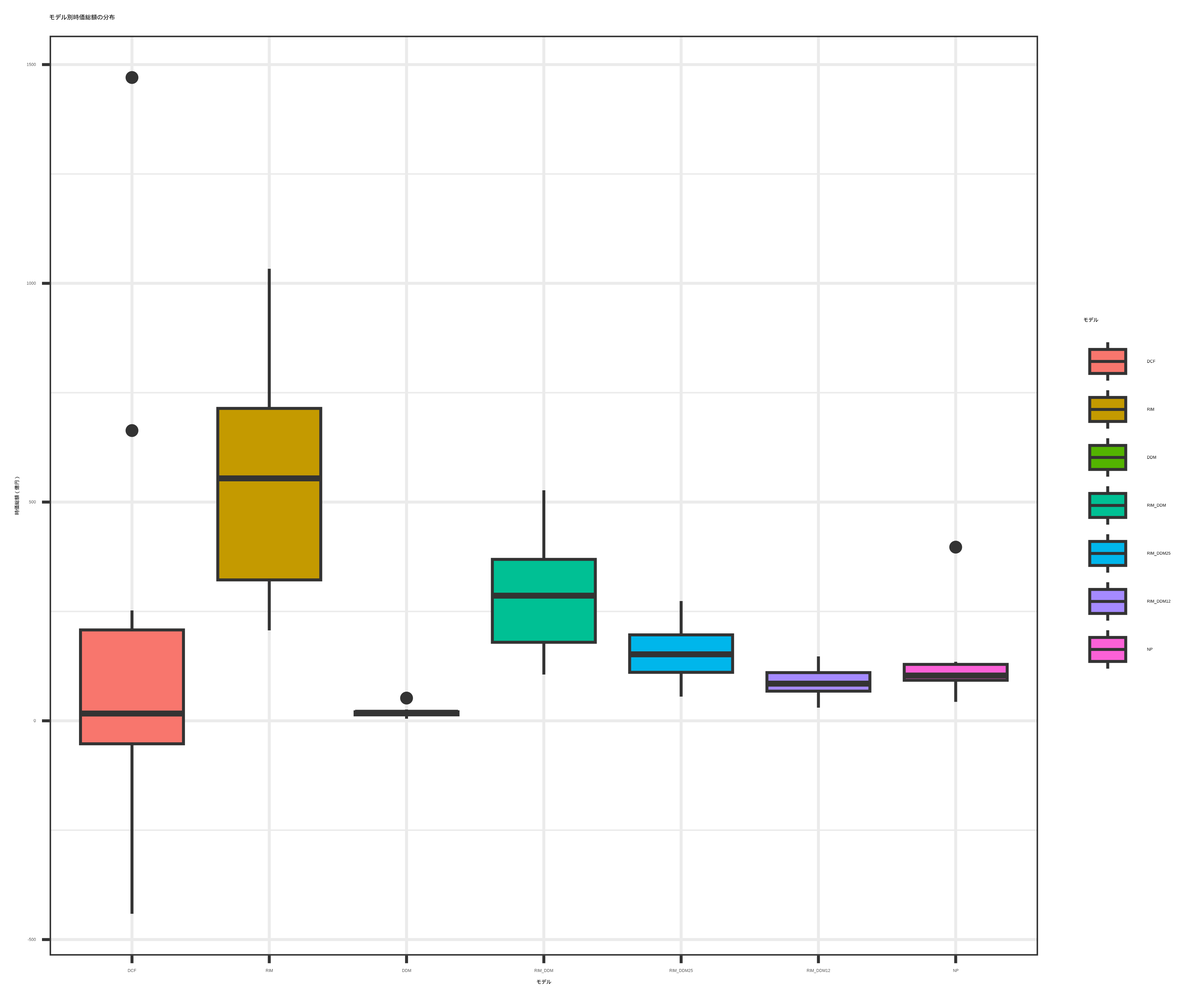
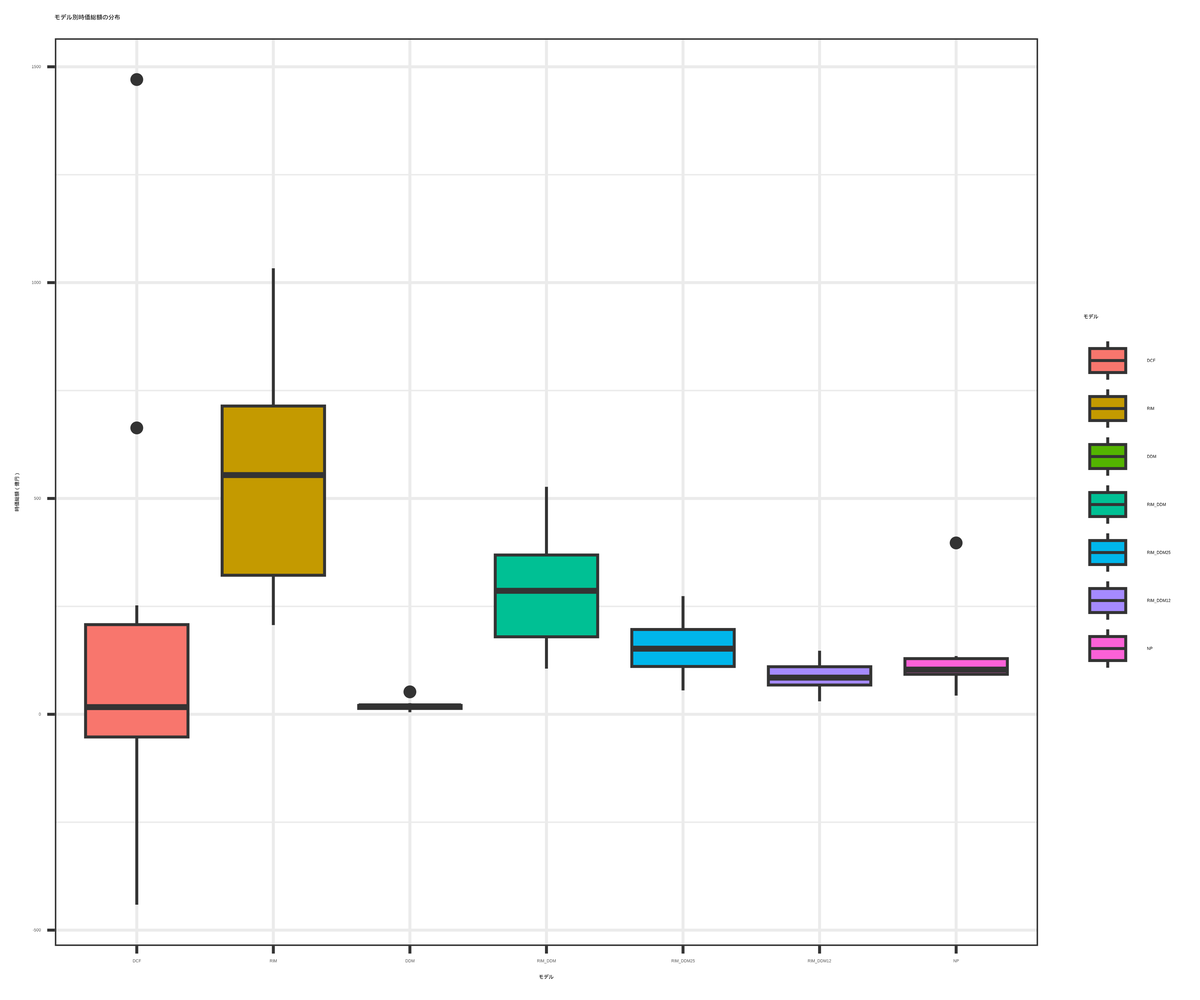
TOPIX

diff --git a/docs/Last.html b/docs/Last.html
@@ -1641,11 +1641,14 @@ dbl (6): df, DCF_value, RIM_value, DDM_value, g, NP_latest
 <div class="sourceCode cell-code" id="cb79"><pre class="sourceCode r code-with-copy"><code class="sourceCode r"><span id="cb79-1"><a href="#cb79-1" aria-hidden="true" tabindex="-1"></a><span class="co"># 5. モデル別分布（箱ひげ図）</span></span>
 <span id="cb79-2"><a href="#cb79-2" aria-hidden="true" tabindex="-1"></a>p2 <span class="ot">&lt;-</span> <span class="fu">ggplot</span>(df_long, <span class="fu">aes</span>(<span class="at">x =</span> モデル, <span class="at">y =</span> 時価総額, <span class="at">fill =</span> モデル)) <span class="sc">+</span></span>
 <span id="cb79-3"><a href="#cb79-3" aria-hidden="true" tabindex="-1"></a>  <span class="fu">geom_boxplot</span>() <span class="sc">+</span></span>
-<span id="cb79-4"><a href="#cb79-4" aria-hidden="true" tabindex="-1"></a>  <span class="fu">labs</span>(<span class="at">title =</span> <span class="st">"モデル別時価総額の分布"</span>,</span>
-<span id="cb79-5"><a href="#cb79-5" aria-hidden="true" tabindex="-1"></a>       <span class="at">x =</span> <span class="st">"モデル"</span>, <span class="at">y =</span> <span class="st">"時価総額（億円）"</span>) <span class="sc">+</span></span>
-<span id="cb79-6"><a href="#cb79-6" aria-hidden="true" tabindex="-1"></a>  <span class="fu">theme_bw</span>()</span>
-<span id="cb79-7"><a href="#cb79-7" aria-hidden="true" tabindex="-1"></a></span>
-<span id="cb79-8"><a href="#cb79-8" aria-hidden="true" tabindex="-1"></a><span class="fu">print</span>(p2)</span></code><button title="Copy to Clipboard" class="code-copy-button"><i class="bi"></i></button></pre></div>
+<span id="cb79-4"><a href="#cb79-4" aria-hidden="true" tabindex="-1"></a>  <span class="fu">labs</span>(<span class="at">x =</span> <span class="st">"モデル"</span>, <span class="at">y =</span> <span class="st">"時価総額（億円）"</span>) <span class="sc">+</span></span>
+<span id="cb79-5"><a href="#cb79-5" aria-hidden="true" tabindex="-1"></a>  <span class="fu">theme</span>(</span>
+<span id="cb79-6"><a href="#cb79-6" aria-hidden="true" tabindex="-1"></a>    <span class="at">axis.title =</span> <span class="fu">element_text</span>(<span class="at">size =</span> <span class="dv">16</span>),</span>
+<span id="cb79-7"><a href="#cb79-7" aria-hidden="true" tabindex="-1"></a>    <span class="at">axis.text =</span> <span class="fu">element_text</span>(<span class="at">size =</span> <span class="dv">14</span>)</span>
+<span id="cb79-8"><a href="#cb79-8" aria-hidden="true" tabindex="-1"></a>  )<span class="sc">+</span></span>
+<span id="cb79-9"><a href="#cb79-9" aria-hidden="true" tabindex="-1"></a>  <span class="fu">theme_bw</span>()</span>
+<span id="cb79-10"><a href="#cb79-10" aria-hidden="true" tabindex="-1"></a></span>
+<span id="cb79-11"><a href="#cb79-11" aria-hidden="true" tabindex="-1"></a><span class="fu">print</span>(p2)</span></code><button title="Copy to Clipboard" class="code-copy-button"><i class="bi"></i></button></pre></div>
 <div class="cell-output-display">
 <div>
 <figure class="figure">
@@ -1654,8 +1657,8 @@ dbl (6): df, DCF_value, RIM_value, DDM_value, g, NP_latest
 </div>
 </div>
 <div class="sourceCode cell-code" id="cb80"><pre class="sourceCode r code-with-copy"><code class="sourceCode r"><span id="cb80-1"><a href="#cb80-1" aria-hidden="true" tabindex="-1"></a><span class="co"># p2 はモデル別分布の箱ひげ図</span></span>
-<span id="cb80-2"><a href="#cb80-2" aria-hidden="true" tabindex="-1"></a><span class="fu">ggsave</span>(<span class="st">"モデル別時価総額分布.png"</span>, <span class="at">plot =</span> p2,</span>
-<span id="cb80-3"><a href="#cb80-3" aria-hidden="true" tabindex="-1"></a>       <span class="at">width =</span> <span class="dv">6</span>, <span class="at">height =</span> <span class="dv">5</span>, <span class="at">dpi =</span> <span class="dv">600</span>)</span>
+<span id="cb80-2"><a href="#cb80-2" aria-hidden="true" tabindex="-1"></a><span class="fu">ggsave</span>(<span class="st">"model_ima.png"</span>,p2,</span>
+<span id="cb80-3"><a href="#cb80-3" aria-hidden="true" tabindex="-1"></a>       <span class="at">width =</span> <span class="dv">10</span>, <span class="at">height =</span> <span class="dv">7</span>,<span class="at">units =</span> <span class="st">"cm"</span>, <span class="at">dpi =</span> <span class="dv">600</span>)</span>
 <span id="cb80-4"><a href="#cb80-4" aria-hidden="true" tabindex="-1"></a></span>
 <span id="cb80-5"><a href="#cb80-5" aria-hidden="true" tabindex="-1"></a></span>
 <span id="cb80-6"><a href="#cb80-6" aria-hidden="true" tabindex="-1"></a></span>
@@ -3014,65 +3017,70 @@ window.document.addEventListener("DOMContentLoaded", function (event) {
 <span id="cb82-846"><a href="#cb82-846" aria-hidden="true" tabindex="-1"></a></span>
 <span id="cb82-847"><a href="#cb82-847" aria-hidden="true" tabindex="-1"></a><span class="fu">print</span>(p1)</span>
 <span id="cb82-848"><a href="#cb82-848" aria-hidden="true" tabindex="-1"></a></span>
-<span id="cb82-849"><a href="#cb82-849" aria-hidden="true" tabindex="-1"></a><span class="co"># 4. モデル別平均時価総額</span></span>
-<span id="cb82-850"><a href="#cb82-850" aria-hidden="true" tabindex="-1"></a>model_summary <span class="ot">&lt;-</span> df_long <span class="sc">%&gt;%</span></span>
-<span id="cb82-851"><a href="#cb82-851" aria-hidden="true" tabindex="-1"></a>  <span class="fu">group_by</span>(モデル) <span class="sc">%&gt;%</span></span>
-<span id="cb82-852"><a href="#cb82-852" aria-hidden="true" tabindex="-1"></a>  <span class="fu">summarise</span>(</span>
-<span id="cb82-853"><a href="#cb82-853" aria-hidden="true" tabindex="-1"></a>    平均 <span class="ot">=</span> <span class="fu">mean</span>(時価総額),</span>
-<span id="cb82-854"><a href="#cb82-854" aria-hidden="true" tabindex="-1"></a>    中央値 <span class="ot">=</span> <span class="fu">median</span>(時価総額),</span>
-<span id="cb82-855"><a href="#cb82-855" aria-hidden="true" tabindex="-1"></a>    最大 <span class="ot">=</span> <span class="fu">max</span>(時価総額),</span>
-<span id="cb82-856"><a href="#cb82-856" aria-hidden="true" tabindex="-1"></a>    最小 <span class="ot">=</span> <span class="fu">min</span>(時価総額),</span>
-<span id="cb82-857"><a href="#cb82-857" aria-hidden="true" tabindex="-1"></a>    <span class="at">SD =</span> <span class="fu">sd</span>(時価総額)</span>
-<span id="cb82-858"><a href="#cb82-858" aria-hidden="true" tabindex="-1"></a>  )</span>
-<span id="cb82-859"><a href="#cb82-859" aria-hidden="true" tabindex="-1"></a></span>
-<span id="cb82-860"><a href="#cb82-860" aria-hidden="true" tabindex="-1"></a><span class="fu">print</span>(model_summary)</span>
+<span id="cb82-849"><a href="#cb82-849" aria-hidden="true" tabindex="-1"></a></span>
+<span id="cb82-850"><a href="#cb82-850" aria-hidden="true" tabindex="-1"></a></span>
+<span id="cb82-851"><a href="#cb82-851" aria-hidden="true" tabindex="-1"></a><span class="co"># 4. モデル別平均時価総額</span></span>
+<span id="cb82-852"><a href="#cb82-852" aria-hidden="true" tabindex="-1"></a>model_summary <span class="ot">&lt;-</span> df_long <span class="sc">%&gt;%</span></span>
+<span id="cb82-853"><a href="#cb82-853" aria-hidden="true" tabindex="-1"></a>  <span class="fu">group_by</span>(モデル) <span class="sc">%&gt;%</span></span>
+<span id="cb82-854"><a href="#cb82-854" aria-hidden="true" tabindex="-1"></a>  <span class="fu">summarise</span>(</span>
+<span id="cb82-855"><a href="#cb82-855" aria-hidden="true" tabindex="-1"></a>    平均 <span class="ot">=</span> <span class="fu">mean</span>(時価総額),</span>
+<span id="cb82-856"><a href="#cb82-856" aria-hidden="true" tabindex="-1"></a>    中央値 <span class="ot">=</span> <span class="fu">median</span>(時価総額),</span>
+<span id="cb82-857"><a href="#cb82-857" aria-hidden="true" tabindex="-1"></a>    最大 <span class="ot">=</span> <span class="fu">max</span>(時価総額),</span>
+<span id="cb82-858"><a href="#cb82-858" aria-hidden="true" tabindex="-1"></a>    最小 <span class="ot">=</span> <span class="fu">min</span>(時価総額),</span>
+<span id="cb82-859"><a href="#cb82-859" aria-hidden="true" tabindex="-1"></a>    <span class="at">SD =</span> <span class="fu">sd</span>(時価総額)</span>
+<span id="cb82-860"><a href="#cb82-860" aria-hidden="true" tabindex="-1"></a>  )</span>
 <span id="cb82-861"><a href="#cb82-861" aria-hidden="true" tabindex="-1"></a></span>
-<span id="cb82-862"><a href="#cb82-862" aria-hidden="true" tabindex="-1"></a><span class="co"># 5. モデル別分布（箱ひげ図）</span></span>
-<span id="cb82-863"><a href="#cb82-863" aria-hidden="true" tabindex="-1"></a>p2 <span class="ot">&lt;-</span> <span class="fu">ggplot</span>(df_long, <span class="fu">aes</span>(<span class="at">x =</span> モデル, <span class="at">y =</span> 時価総額, <span class="at">fill =</span> モデル)) <span class="sc">+</span></span>
-<span id="cb82-864"><a href="#cb82-864" aria-hidden="true" tabindex="-1"></a>  <span class="fu">geom_boxplot</span>() <span class="sc">+</span></span>
-<span id="cb82-865"><a href="#cb82-865" aria-hidden="true" tabindex="-1"></a>  <span class="fu">labs</span>(<span class="at">title =</span> <span class="st">"モデル別時価総額の分布"</span>,</span>
-<span id="cb82-866"><a href="#cb82-866" aria-hidden="true" tabindex="-1"></a>       <span class="at">x =</span> <span class="st">"モデル"</span>, <span class="at">y =</span> <span class="st">"時価総額（億円）"</span>) <span class="sc">+</span></span>
-<span id="cb82-867"><a href="#cb82-867" aria-hidden="true" tabindex="-1"></a>  <span class="fu">theme_bw</span>()</span>
-<span id="cb82-868"><a href="#cb82-868" aria-hidden="true" tabindex="-1"></a></span>
-<span id="cb82-869"><a href="#cb82-869" aria-hidden="true" tabindex="-1"></a><span class="fu">print</span>(p2)</span>
-<span id="cb82-870"><a href="#cb82-870" aria-hidden="true" tabindex="-1"></a></span>
-<span id="cb82-871"><a href="#cb82-871" aria-hidden="true" tabindex="-1"></a><span class="co"># p2 はモデル別分布の箱ひげ図</span></span>
-<span id="cb82-872"><a href="#cb82-872" aria-hidden="true" tabindex="-1"></a><span class="fu">ggsave</span>(<span class="st">"モデル別時価総額分布.png"</span>, <span class="at">plot =</span> p2,</span>
-<span id="cb82-873"><a href="#cb82-873" aria-hidden="true" tabindex="-1"></a>       <span class="at">width =</span> <span class="dv">6</span>, <span class="at">height =</span> <span class="dv">5</span>, <span class="at">dpi =</span> <span class="dv">600</span>)</span>
-<span id="cb82-874"><a href="#cb82-874" aria-hidden="true" tabindex="-1"></a></span>
+<span id="cb82-862"><a href="#cb82-862" aria-hidden="true" tabindex="-1"></a><span class="fu">print</span>(model_summary)</span>
+<span id="cb82-863"><a href="#cb82-863" aria-hidden="true" tabindex="-1"></a></span>
+<span id="cb82-864"><a href="#cb82-864" aria-hidden="true" tabindex="-1"></a><span class="co"># 5. モデル別分布（箱ひげ図）</span></span>
+<span id="cb82-865"><a href="#cb82-865" aria-hidden="true" tabindex="-1"></a>p2 <span class="ot">&lt;-</span> <span class="fu">ggplot</span>(df_long, <span class="fu">aes</span>(<span class="at">x =</span> モデル, <span class="at">y =</span> 時価総額, <span class="at">fill =</span> モデル)) <span class="sc">+</span></span>
+<span id="cb82-866"><a href="#cb82-866" aria-hidden="true" tabindex="-1"></a>  <span class="fu">geom_boxplot</span>() <span class="sc">+</span></span>
+<span id="cb82-867"><a href="#cb82-867" aria-hidden="true" tabindex="-1"></a>  <span class="fu">labs</span>(<span class="at">x =</span> <span class="st">"モデル"</span>, <span class="at">y =</span> <span class="st">"時価総額（億円）"</span>) <span class="sc">+</span></span>
+<span id="cb82-868"><a href="#cb82-868" aria-hidden="true" tabindex="-1"></a>  <span class="fu">theme</span>(</span>
+<span id="cb82-869"><a href="#cb82-869" aria-hidden="true" tabindex="-1"></a>    <span class="at">axis.title =</span> <span class="fu">element_text</span>(<span class="at">size =</span> <span class="dv">16</span>),</span>
+<span id="cb82-870"><a href="#cb82-870" aria-hidden="true" tabindex="-1"></a>    <span class="at">axis.text =</span> <span class="fu">element_text</span>(<span class="at">size =</span> <span class="dv">14</span>)</span>
+<span id="cb82-871"><a href="#cb82-871" aria-hidden="true" tabindex="-1"></a>  )<span class="sc">+</span></span>
+<span id="cb82-872"><a href="#cb82-872" aria-hidden="true" tabindex="-1"></a>  <span class="fu">theme_bw</span>()</span>
+<span id="cb82-873"><a href="#cb82-873" aria-hidden="true" tabindex="-1"></a></span>
+<span id="cb82-874"><a href="#cb82-874" aria-hidden="true" tabindex="-1"></a><span class="fu">print</span>(p2)</span>
 <span id="cb82-875"><a href="#cb82-875" aria-hidden="true" tabindex="-1"></a></span>
-<span id="cb82-876"><a href="#cb82-876" aria-hidden="true" tabindex="-1"></a></span>
-<span id="cb82-877"><a href="#cb82-877" aria-hidden="true" tabindex="-1"></a><span class="co"># 6. 優位モデルの企業数を集計</span></span>
-<span id="cb82-878"><a href="#cb82-878" aria-hidden="true" tabindex="-1"></a></span>
-<span id="cb82-879"><a href="#cb82-879" aria-hidden="true" tabindex="-1"></a><span class="co"># NPの評価額を各企業ごとに取得</span></span>
-<span id="cb82-880"><a href="#cb82-880" aria-hidden="true" tabindex="-1"></a>df_np <span class="ot">&lt;-</span> df_long <span class="sc">%&gt;%</span></span>
-<span id="cb82-881"><a href="#cb82-881" aria-hidden="true" tabindex="-1"></a>  <span class="fu">filter</span>(モデル <span class="sc">==</span> <span class="st">"NP"</span>) <span class="sc">%&gt;%</span></span>
-<span id="cb82-882"><a href="#cb82-882" aria-hidden="true" tabindex="-1"></a>  <span class="fu">select</span>(df, <span class="at">NP_value =</span> 時価総額)</span>
+<span id="cb82-876"><a href="#cb82-876" aria-hidden="true" tabindex="-1"></a><span class="co"># p2 はモデル別分布の箱ひげ図</span></span>
+<span id="cb82-877"><a href="#cb82-877" aria-hidden="true" tabindex="-1"></a><span class="fu">ggsave</span>(<span class="st">"model_ima.png"</span>,p2,</span>
+<span id="cb82-878"><a href="#cb82-878" aria-hidden="true" tabindex="-1"></a>       <span class="at">width =</span> <span class="dv">10</span>, <span class="at">height =</span> <span class="dv">7</span>,<span class="at">units =</span> <span class="st">"cm"</span>, <span class="at">dpi =</span> <span class="dv">600</span>)</span>
+<span id="cb82-879"><a href="#cb82-879" aria-hidden="true" tabindex="-1"></a></span>
+<span id="cb82-880"><a href="#cb82-880" aria-hidden="true" tabindex="-1"></a></span>
+<span id="cb82-881"><a href="#cb82-881" aria-hidden="true" tabindex="-1"></a></span>
+<span id="cb82-882"><a href="#cb82-882" aria-hidden="true" tabindex="-1"></a><span class="co"># 6. 優位モデルの企業数を集計</span></span>
 <span id="cb82-883"><a href="#cb82-883" aria-hidden="true" tabindex="-1"></a></span>
-<span id="cb82-884"><a href="#cb82-884" aria-hidden="true" tabindex="-1"></a><span class="co"># NPとの差を計算</span></span>
-<span id="cb82-885"><a href="#cb82-885" aria-hidden="true" tabindex="-1"></a>df_comparison <span class="ot">&lt;-</span> df_long <span class="sc">%&gt;%</span></span>
-<span id="cb82-886"><a href="#cb82-886" aria-hidden="true" tabindex="-1"></a>  <span class="fu">filter</span>(モデル <span class="sc">!=</span> <span class="st">"NP"</span>) <span class="sc">%&gt;%</span>        <span class="co"># NP自体は除く</span></span>
-<span id="cb82-887"><a href="#cb82-887" aria-hidden="true" tabindex="-1"></a>  <span class="fu">left_join</span>(df_np, <span class="at">by =</span> <span class="st">"df"</span>) <span class="sc">%&gt;%</span>   <span class="co"># NPの値を結合</span></span>
-<span id="cb82-888"><a href="#cb82-888" aria-hidden="true" tabindex="-1"></a>  <span class="fu">mutate</span>(</span>
-<span id="cb82-889"><a href="#cb82-889" aria-hidden="true" tabindex="-1"></a>    <span class="at">abs_diff =</span> <span class="fu">abs</span>(時価総額 <span class="sc">-</span> NP_value),        <span class="co"># 絶対差</span></span>
-<span id="cb82-890"><a href="#cb82-890" aria-hidden="true" tabindex="-1"></a>    <span class="at">rel_diff =</span> <span class="fu">abs</span>(時価総額 <span class="sc">-</span> NP_value) <span class="sc">/</span> NP_value  <span class="co"># 相対差</span></span>
-<span id="cb82-891"><a href="#cb82-891" aria-hidden="true" tabindex="-1"></a>  )</span>
-<span id="cb82-892"><a href="#cb82-892" aria-hidden="true" tabindex="-1"></a></span>
-<span id="cb82-893"><a href="#cb82-893" aria-hidden="true" tabindex="-1"></a><span class="co"># 企業ごとにNPに最も近いモデルを抽出</span></span>
-<span id="cb82-894"><a href="#cb82-894" aria-hidden="true" tabindex="-1"></a>dominant_model <span class="ot">&lt;-</span> df_comparison <span class="sc">%&gt;%</span></span>
-<span id="cb82-895"><a href="#cb82-895" aria-hidden="true" tabindex="-1"></a>  <span class="fu">group_by</span>(df) <span class="sc">%&gt;%</span></span>
-<span id="cb82-896"><a href="#cb82-896" aria-hidden="true" tabindex="-1"></a>  <span class="fu">slice_min</span>(<span class="at">order_by =</span> abs_diff, <span class="at">n =</span> <span class="dv">1</span>, <span class="at">with_ties =</span> <span class="cn">FALSE</span>) <span class="sc">%&gt;%</span></span>
-<span id="cb82-897"><a href="#cb82-897" aria-hidden="true" tabindex="-1"></a>  <span class="fu">ungroup</span>() <span class="sc">%&gt;%</span></span>
-<span id="cb82-898"><a href="#cb82-898" aria-hidden="true" tabindex="-1"></a>  <span class="fu">select</span>(df, モデル, 時価総額, NP_value, abs_diff, rel_diff)</span>
-<span id="cb82-899"><a href="#cb82-899" aria-hidden="true" tabindex="-1"></a></span>
-<span id="cb82-900"><a href="#cb82-900" aria-hidden="true" tabindex="-1"></a>model_count <span class="ot">&lt;-</span> dominant_model <span class="sc">%&gt;%</span></span>
-<span id="cb82-901"><a href="#cb82-901" aria-hidden="true" tabindex="-1"></a>  <span class="fu">group_by</span>(モデル) <span class="sc">%&gt;%</span></span>
-<span id="cb82-902"><a href="#cb82-902" aria-hidden="true" tabindex="-1"></a>  <span class="fu">summarise</span>(企業数 <span class="ot">=</span> <span class="fu">n</span>()) <span class="sc">%&gt;%</span></span>
-<span id="cb82-903"><a href="#cb82-903" aria-hidden="true" tabindex="-1"></a>  <span class="fu">arrange</span>(<span class="fu">desc</span>(企業数))</span>
+<span id="cb82-884"><a href="#cb82-884" aria-hidden="true" tabindex="-1"></a><span class="co"># NPの評価額を各企業ごとに取得</span></span>
+<span id="cb82-885"><a href="#cb82-885" aria-hidden="true" tabindex="-1"></a>df_np <span class="ot">&lt;-</span> df_long <span class="sc">%&gt;%</span></span>
+<span id="cb82-886"><a href="#cb82-886" aria-hidden="true" tabindex="-1"></a>  <span class="fu">filter</span>(モデル <span class="sc">==</span> <span class="st">"NP"</span>) <span class="sc">%&gt;%</span></span>
+<span id="cb82-887"><a href="#cb82-887" aria-hidden="true" tabindex="-1"></a>  <span class="fu">select</span>(df, <span class="at">NP_value =</span> 時価総額)</span>
+<span id="cb82-888"><a href="#cb82-888" aria-hidden="true" tabindex="-1"></a></span>
+<span id="cb82-889"><a href="#cb82-889" aria-hidden="true" tabindex="-1"></a><span class="co"># NPとの差を計算</span></span>
+<span id="cb82-890"><a href="#cb82-890" aria-hidden="true" tabindex="-1"></a>df_comparison <span class="ot">&lt;-</span> df_long <span class="sc">%&gt;%</span></span>
+<span id="cb82-891"><a href="#cb82-891" aria-hidden="true" tabindex="-1"></a>  <span class="fu">filter</span>(モデル <span class="sc">!=</span> <span class="st">"NP"</span>) <span class="sc">%&gt;%</span>        <span class="co"># NP自体は除く</span></span>
+<span id="cb82-892"><a href="#cb82-892" aria-hidden="true" tabindex="-1"></a>  <span class="fu">left_join</span>(df_np, <span class="at">by =</span> <span class="st">"df"</span>) <span class="sc">%&gt;%</span>   <span class="co"># NPの値を結合</span></span>
+<span id="cb82-893"><a href="#cb82-893" aria-hidden="true" tabindex="-1"></a>  <span class="fu">mutate</span>(</span>
+<span id="cb82-894"><a href="#cb82-894" aria-hidden="true" tabindex="-1"></a>    <span class="at">abs_diff =</span> <span class="fu">abs</span>(時価総額 <span class="sc">-</span> NP_value),        <span class="co"># 絶対差</span></span>
+<span id="cb82-895"><a href="#cb82-895" aria-hidden="true" tabindex="-1"></a>    <span class="at">rel_diff =</span> <span class="fu">abs</span>(時価総額 <span class="sc">-</span> NP_value) <span class="sc">/</span> NP_value  <span class="co"># 相対差</span></span>
+<span id="cb82-896"><a href="#cb82-896" aria-hidden="true" tabindex="-1"></a>  )</span>
+<span id="cb82-897"><a href="#cb82-897" aria-hidden="true" tabindex="-1"></a></span>
+<span id="cb82-898"><a href="#cb82-898" aria-hidden="true" tabindex="-1"></a><span class="co"># 企業ごとにNPに最も近いモデルを抽出</span></span>
+<span id="cb82-899"><a href="#cb82-899" aria-hidden="true" tabindex="-1"></a>dominant_model <span class="ot">&lt;-</span> df_comparison <span class="sc">%&gt;%</span></span>
+<span id="cb82-900"><a href="#cb82-900" aria-hidden="true" tabindex="-1"></a>  <span class="fu">group_by</span>(df) <span class="sc">%&gt;%</span></span>
+<span id="cb82-901"><a href="#cb82-901" aria-hidden="true" tabindex="-1"></a>  <span class="fu">slice_min</span>(<span class="at">order_by =</span> abs_diff, <span class="at">n =</span> <span class="dv">1</span>, <span class="at">with_ties =</span> <span class="cn">FALSE</span>) <span class="sc">%&gt;%</span></span>
+<span id="cb82-902"><a href="#cb82-902" aria-hidden="true" tabindex="-1"></a>  <span class="fu">ungroup</span>() <span class="sc">%&gt;%</span></span>
+<span id="cb82-903"><a href="#cb82-903" aria-hidden="true" tabindex="-1"></a>  <span class="fu">select</span>(df, モデル, 時価総額, NP_value, abs_diff, rel_diff)</span>
 <span id="cb82-904"><a href="#cb82-904" aria-hidden="true" tabindex="-1"></a></span>
-<span id="cb82-905"><a href="#cb82-905" aria-hidden="true" tabindex="-1"></a><span class="fu">print</span>(model_count)</span>
-<span id="cb82-906"><a href="#cb82-906" aria-hidden="true" tabindex="-1"></a></span>
-<span id="cb82-907"><a href="#cb82-907" aria-hidden="true" tabindex="-1"></a><span class="in">```</span></span>
+<span id="cb82-905"><a href="#cb82-905" aria-hidden="true" tabindex="-1"></a>model_count <span class="ot">&lt;-</span> dominant_model <span class="sc">%&gt;%</span></span>
+<span id="cb82-906"><a href="#cb82-906" aria-hidden="true" tabindex="-1"></a>  <span class="fu">group_by</span>(モデル) <span class="sc">%&gt;%</span></span>
+<span id="cb82-907"><a href="#cb82-907" aria-hidden="true" tabindex="-1"></a>  <span class="fu">summarise</span>(企業数 <span class="ot">=</span> <span class="fu">n</span>()) <span class="sc">%&gt;%</span></span>
+<span id="cb82-908"><a href="#cb82-908" aria-hidden="true" tabindex="-1"></a>  <span class="fu">arrange</span>(<span class="fu">desc</span>(企業数))</span>
+<span id="cb82-909"><a href="#cb82-909" aria-hidden="true" tabindex="-1"></a></span>
+<span id="cb82-910"><a href="#cb82-910" aria-hidden="true" tabindex="-1"></a><span class="fu">print</span>(model_count)</span>
+<span id="cb82-911"><a href="#cb82-911" aria-hidden="true" tabindex="-1"></a></span>
+<span id="cb82-912"><a href="#cb82-912" aria-hidden="true" tabindex="-1"></a><span class="in">```</span></span>
 </code><button title="Copy to Clipboard" class="code-copy-button" data-in-quarto-modal=""><i class="bi"></i></button></pre></div>
 </div></div></div></div></div>
 </div> <!-- /content -->

diff --git a/docs/00_TOPIX.html b/docs/00_TOPIX.html
@@ -584,7 +584,7 @@ date (1): Date
 <div class="sourceCode cell-code" id="cb13"><pre class="sourceCode r code-with-copy"><code class="sourceCode r"><span id="cb13-1"><a href="#cb13-1" aria-hidden="true" tabindex="-1"></a><span class="co"># ------------------------------------------------------------</span></span>
 <span id="cb13-2"><a href="#cb13-2" aria-hidden="true" tabindex="-1"></a><span class="co"># グラフ作成</span></span>
 <span id="cb13-3"><a href="#cb13-3" aria-hidden="true" tabindex="-1"></a><span class="co"># ------------------------------------------------------------</span></span>
-<span id="cb13-4"><a href="#cb13-4" aria-hidden="true" tabindex="-1"></a><span class="fu">ggplot</span>(TOPIX_df_long, <span class="fu">aes</span>(<span class="at">x =</span> Year)) <span class="sc">+</span></span>
+<span id="cb13-4"><a href="#cb13-4" aria-hidden="true" tabindex="-1"></a>P <span class="ot">&lt;-</span> <span class="fu">ggplot</span>(TOPIX_df_long, <span class="fu">aes</span>(<span class="at">x =</span> Year)) <span class="sc">+</span></span>
 <span id="cb13-5"><a href="#cb13-5" aria-hidden="true" tabindex="-1"></a>  <span class="fu">geom_line</span>(<span class="fu">aes</span>(<span class="at">y =</span> <span class="fu">ifelse</span>(項目 <span class="sc">==</span> <span class="st">"Return"</span>, 値 <span class="sc">*</span> coef, 値), <span class="at">color =</span> 項目),</span>
 <span id="cb13-6"><a href="#cb13-6" aria-hidden="true" tabindex="-1"></a>            <span class="at">linewidth =</span> <span class="fl">1.2</span>, <span class="at">alpha =</span> <span class="fl">0.8</span>) <span class="sc">+</span></span>
 <span id="cb13-7"><a href="#cb13-7" aria-hidden="true" tabindex="-1"></a>  <span class="co"># 縦線</span></span>
@@ -613,23 +613,15 @@ date (1): Date
 <span id="cb13-30"><a href="#cb13-30" aria-hidden="true" tabindex="-1"></a>                                <span class="st">"上昇"</span> <span class="ot">=</span> <span class="st">"red"</span>, <span class="st">"下落"</span> <span class="ot">=</span> <span class="st">"blue"</span>),</span>
 <span id="cb13-31"><a href="#cb13-31" aria-hidden="true" tabindex="-1"></a>                     <span class="at">labels =</span> <span class="fu">c</span>(<span class="st">"TOPIX指数"</span>, <span class="st">"値上がり率（%）"</span>,<span class="st">""</span>,<span class="st">""</span>)) <span class="sc">+</span></span>
 <span id="cb13-32"><a href="#cb13-32" aria-hidden="true" tabindex="-1"></a>  <span class="fu">labs</span>(</span>
-<span id="cb13-33"><a href="#cb13-33" aria-hidden="true" tabindex="-1"></a>    <span class="at">title =</span> <span class="st">"TOPIX指数と日本経済主要イベント"</span>,</span>
-<span id="cb13-34"><a href="#cb13-34" aria-hidden="true" tabindex="-1"></a>    <span class="at">x =</span> <span class="st">"年"</span></span>
-<span id="cb13-35"><a href="#cb13-35" aria-hidden="true" tabindex="-1"></a>  ) <span class="sc">+</span></span>
-<span id="cb13-36"><a href="#cb13-36" aria-hidden="true" tabindex="-1"></a>  <span class="fu">theme_classic</span>() <span class="sc">+</span></span>
-<span id="cb13-37"><a href="#cb13-37" aria-hidden="true" tabindex="-1"></a>  <span class="fu">theme</span>(</span>
-<span id="cb13-38"><a href="#cb13-38" aria-hidden="true" tabindex="-1"></a>    <span class="at">legend.position =</span> <span class="st">"top"</span>,</span>
-<span id="cb13-39"><a href="#cb13-39" aria-hidden="true" tabindex="-1"></a>    <span class="at">plot.title =</span> <span class="fu">element_text</span>(<span class="at">size =</span> <span class="dv">14</span>, <span class="at">face =</span> <span class="st">"bold"</span>),</span>
-<span id="cb13-40"><a href="#cb13-40" aria-hidden="true" tabindex="-1"></a>    <span class="at">axis.title.y =</span> <span class="fu">element_text</span>(<span class="at">color =</span> <span class="st">"black"</span>),</span>
-<span id="cb13-41"><a href="#cb13-41" aria-hidden="true" tabindex="-1"></a>    <span class="at">axis.title.y.right =</span> <span class="fu">element_text</span>(<span class="at">color =</span> <span class="st">"black"</span>)</span>
-<span id="cb13-42"><a href="#cb13-42" aria-hidden="true" tabindex="-1"></a>  )</span></code><button title="Copy to Clipboard" class="code-copy-button"><i class="bi"></i></button></pre></div>
-<div class="cell-output-display">
-<div>
-<figure class="figure">
-<p><img src="00_TOPIX_files/figure-html/unnamed-chunk-3-1.png" class="img-fluid figure-img" width="1152"></p>
-</figure>
-</div>
-</div>
+<span id="cb13-33"><a href="#cb13-33" aria-hidden="true" tabindex="-1"></a>    <span class="at">x =</span> <span class="st">"年"</span></span>
+<span id="cb13-34"><a href="#cb13-34" aria-hidden="true" tabindex="-1"></a>  ) <span class="sc">+</span></span>
+<span id="cb13-35"><a href="#cb13-35" aria-hidden="true" tabindex="-1"></a>  <span class="fu">theme_classic</span>() <span class="sc">+</span></span>
+<span id="cb13-36"><a href="#cb13-36" aria-hidden="true" tabindex="-1"></a>  <span class="fu">theme</span>(</span>
+<span id="cb13-37"><a href="#cb13-37" aria-hidden="true" tabindex="-1"></a>    <span class="at">legend.position =</span> <span class="st">"top"</span>,</span>
+<span id="cb13-38"><a href="#cb13-38" aria-hidden="true" tabindex="-1"></a>    <span class="at">plot.title =</span> <span class="fu">element_text</span>(<span class="at">size =</span> <span class="dv">14</span>, <span class="at">face =</span> <span class="st">"bold"</span>),</span>
+<span id="cb13-39"><a href="#cb13-39" aria-hidden="true" tabindex="-1"></a>    <span class="at">axis.title.y =</span> <span class="fu">element_text</span>(<span class="at">color =</span> <span class="st">"black"</span>),</span>
+<span id="cb13-40"><a href="#cb13-40" aria-hidden="true" tabindex="-1"></a>    <span class="at">axis.title.y.right =</span> <span class="fu">element_text</span>(<span class="at">color =</span> <span class="st">"black"</span>)</span>
+<span id="cb13-41"><a href="#cb13-41" aria-hidden="true" tabindex="-1"></a>  )</span></code><button title="Copy to Clipboard" class="code-copy-button"><i class="bi"></i></button></pre></div>
 </div>
 
 
@@ -1210,7 +1202,7 @@ window.document.addEventListener("DOMContentLoaded", function (event) {
 <span id="cb14-107"><a href="#cb14-107" aria-hidden="true" tabindex="-1"></a><span class="co"># ------------------------------------------------------------</span></span>
 <span id="cb14-108"><a href="#cb14-108" aria-hidden="true" tabindex="-1"></a><span class="co"># グラフ作成</span></span>
 <span id="cb14-109"><a href="#cb14-109" aria-hidden="true" tabindex="-1"></a><span class="co"># ------------------------------------------------------------</span></span>
-<span id="cb14-110"><a href="#cb14-110" aria-hidden="true" tabindex="-1"></a><span class="fu">ggplot</span>(TOPIX_df_long, <span class="fu">aes</span>(<span class="at">x =</span> Year)) <span class="sc">+</span></span>
+<span id="cb14-110"><a href="#cb14-110" aria-hidden="true" tabindex="-1"></a>P <span class="ot">&lt;-</span> <span class="fu">ggplot</span>(TOPIX_df_long, <span class="fu">aes</span>(<span class="at">x =</span> Year)) <span class="sc">+</span></span>
 <span id="cb14-111"><a href="#cb14-111" aria-hidden="true" tabindex="-1"></a>  <span class="fu">geom_line</span>(<span class="fu">aes</span>(<span class="at">y =</span> <span class="fu">ifelse</span>(項目 <span class="sc">==</span> <span class="st">"Return"</span>, 値 <span class="sc">*</span> coef, 値), <span class="at">color =</span> 項目),</span>
 <span id="cb14-112"><a href="#cb14-112" aria-hidden="true" tabindex="-1"></a>            <span class="at">linewidth =</span> <span class="fl">1.2</span>, <span class="at">alpha =</span> <span class="fl">0.8</span>) <span class="sc">+</span></span>
 <span id="cb14-113"><a href="#cb14-113" aria-hidden="true" tabindex="-1"></a>  <span class="co"># 縦線</span></span>
@@ -1239,18 +1231,17 @@ window.document.addEventListener("DOMContentLoaded", function (event) {
 <span id="cb14-136"><a href="#cb14-136" aria-hidden="true" tabindex="-1"></a>                                <span class="st">"上昇"</span> <span class="ot">=</span> <span class="st">"red"</span>, <span class="st">"下落"</span> <span class="ot">=</span> <span class="st">"blue"</span>),</span>
 <span id="cb14-137"><a href="#cb14-137" aria-hidden="true" tabindex="-1"></a>                     <span class="at">labels =</span> <span class="fu">c</span>(<span class="st">"TOPIX指数"</span>, <span class="st">"値上がり率（%）"</span>,<span class="st">""</span>,<span class="st">""</span>)) <span class="sc">+</span></span>
 <span id="cb14-138"><a href="#cb14-138" aria-hidden="true" tabindex="-1"></a>  <span class="fu">labs</span>(</span>
-<span id="cb14-139"><a href="#cb14-139" aria-hidden="true" tabindex="-1"></a>    <span class="at">title =</span> <span class="st">"TOPIX指数と日本経済主要イベント"</span>,</span>
-<span id="cb14-140"><a href="#cb14-140" aria-hidden="true" tabindex="-1"></a>    <span class="at">x =</span> <span class="st">"年"</span></span>
-<span id="cb14-141"><a href="#cb14-141" aria-hidden="true" tabindex="-1"></a>  ) <span class="sc">+</span></span>
-<span id="cb14-142"><a href="#cb14-142" aria-hidden="true" tabindex="-1"></a>  <span class="fu">theme_classic</span>() <span class="sc">+</span></span>
-<span id="cb14-143"><a href="#cb14-143" aria-hidden="true" tabindex="-1"></a>  <span class="fu">theme</span>(</span>
-<span id="cb14-144"><a href="#cb14-144" aria-hidden="true" tabindex="-1"></a>    <span class="at">legend.position =</span> <span class="st">"top"</span>,</span>
-<span id="cb14-145"><a href="#cb14-145" aria-hidden="true" tabindex="-1"></a>    <span class="at">plot.title =</span> <span class="fu">element_text</span>(<span class="at">size =</span> <span class="dv">14</span>, <span class="at">face =</span> <span class="st">"bold"</span>),</span>
-<span id="cb14-146"><a href="#cb14-146" aria-hidden="true" tabindex="-1"></a>    <span class="at">axis.title.y =</span> <span class="fu">element_text</span>(<span class="at">color =</span> <span class="st">"black"</span>),</span>
-<span id="cb14-147"><a href="#cb14-147" aria-hidden="true" tabindex="-1"></a>    <span class="at">axis.title.y.right =</span> <span class="fu">element_text</span>(<span class="at">color =</span> <span class="st">"black"</span>)</span>
-<span id="cb14-148"><a href="#cb14-148" aria-hidden="true" tabindex="-1"></a>  )</span>
-<span id="cb14-149"><a href="#cb14-149" aria-hidden="true" tabindex="-1"></a></span>
-<span id="cb14-150"><a href="#cb14-150" aria-hidden="true" tabindex="-1"></a><span class="in">```</span></span>
+<span id="cb14-139"><a href="#cb14-139" aria-hidden="true" tabindex="-1"></a>    <span class="at">x =</span> <span class="st">"年"</span></span>
+<span id="cb14-140"><a href="#cb14-140" aria-hidden="true" tabindex="-1"></a>  ) <span class="sc">+</span></span>
+<span id="cb14-141"><a href="#cb14-141" aria-hidden="true" tabindex="-1"></a>  <span class="fu">theme_classic</span>() <span class="sc">+</span></span>
+<span id="cb14-142"><a href="#cb14-142" aria-hidden="true" tabindex="-1"></a>  <span class="fu">theme</span>(</span>
+<span id="cb14-143"><a href="#cb14-143" aria-hidden="true" tabindex="-1"></a>    <span class="at">legend.position =</span> <span class="st">"top"</span>,</span>
+<span id="cb14-144"><a href="#cb14-144" aria-hidden="true" tabindex="-1"></a>    <span class="at">plot.title =</span> <span class="fu">element_text</span>(<span class="at">size =</span> <span class="dv">14</span>, <span class="at">face =</span> <span class="st">"bold"</span>),</span>
+<span id="cb14-145"><a href="#cb14-145" aria-hidden="true" tabindex="-1"></a>    <span class="at">axis.title.y =</span> <span class="fu">element_text</span>(<span class="at">color =</span> <span class="st">"black"</span>),</span>
+<span id="cb14-146"><a href="#cb14-146" aria-hidden="true" tabindex="-1"></a>    <span class="at">axis.title.y.right =</span> <span class="fu">element_text</span>(<span class="at">color =</span> <span class="st">"black"</span>)</span>
+<span id="cb14-147"><a href="#cb14-147" aria-hidden="true" tabindex="-1"></a>  )</span>
+<span id="cb14-148"><a href="#cb14-148" aria-hidden="true" tabindex="-1"></a></span>
+<span id="cb14-149"><a href="#cb14-149" aria-hidden="true" tabindex="-1"></a><span class="in">```</span></span>
 </code><button title="Copy to Clipboard" class="code-copy-button" data-in-quarto-modal=""><i class="bi"></i></button></pre></div>
 </div></div></div></div></div>
 </div> <!-- /content -->
